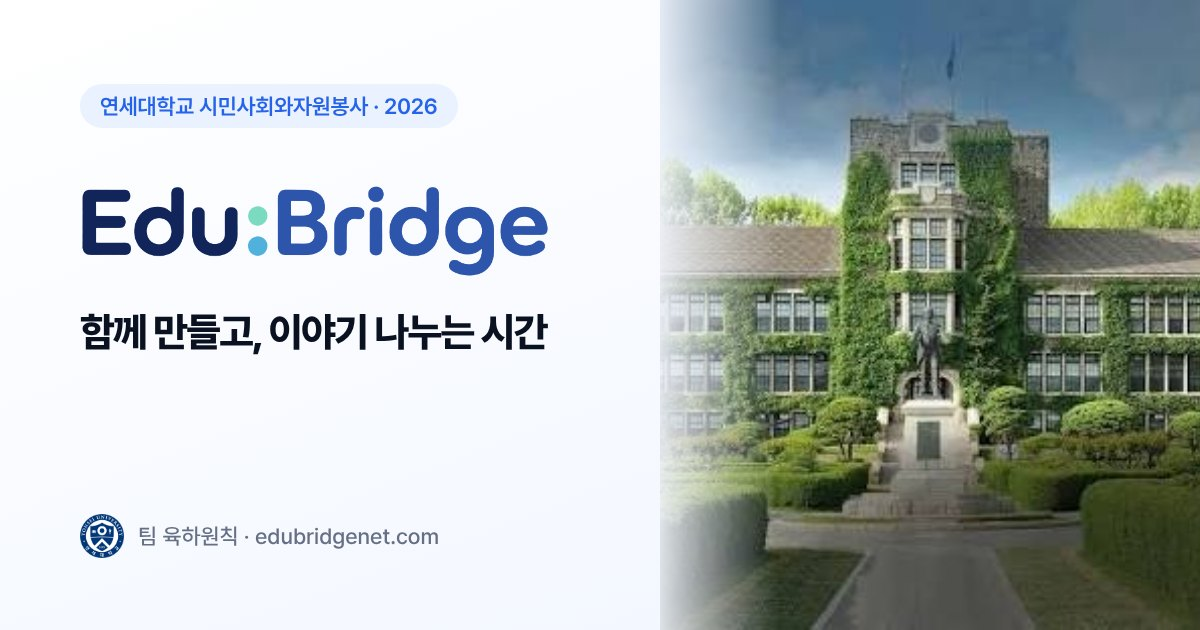
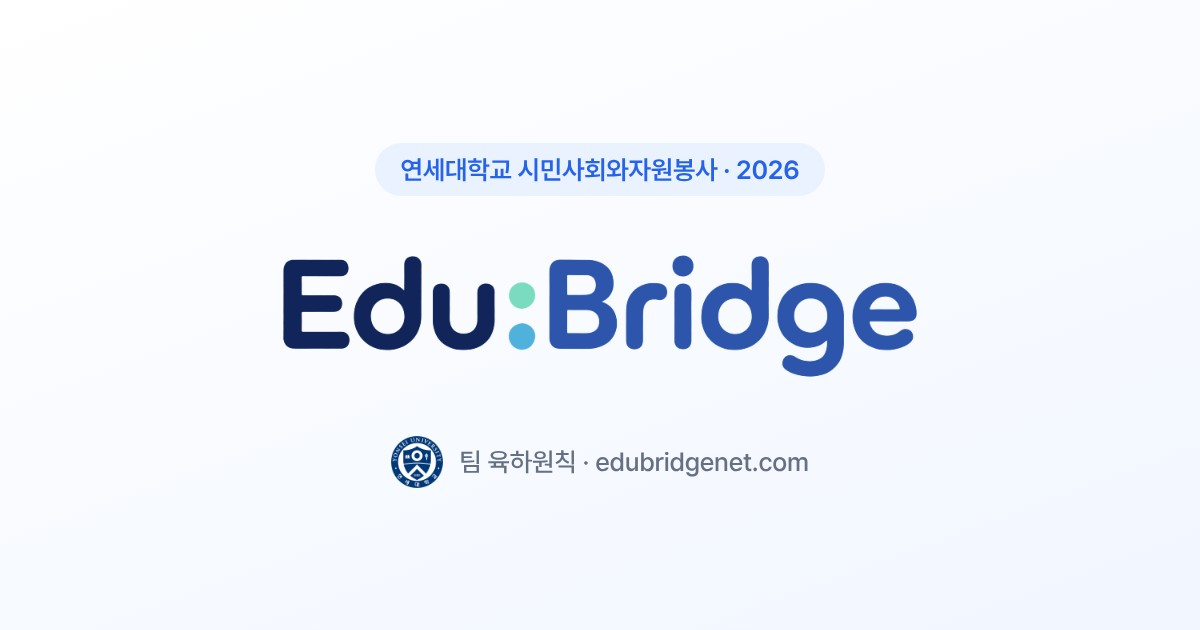
공유 대표 이미지 단순화: 과목명·워드마크·팀명 3줄만
Claude-Session: https://claude.ai/code/session_01FGrZ4YZC4wMHC5N4Ckxrr4

diff --git a/about.html b/about.html
@@ -14,7 +14,7 @@
 <meta property="og:image" content="https://edubridgenet.com/img/og.jpg">
 <meta property="og:image:width" content="1200">
 <meta property="og:image:height" content="630">
-<meta property="og:image:alt" content="EDU:BRIDGE 함께 만들고, 이야기 나누는 시간">
+<meta property="og:image:alt" content="EDU:BRIDGE · 연세대학교 팀 육하원칙">
 <meta name="twitter:card" content="summary_large_image">
 <link rel="icon" href="img/symbol.png">
 <link rel="preload" href="assets/pretendard.woff2" as="font" type="font/woff2" crossorigin>

diff --git a/activity.html b/activity.html
@@ -14,7 +14,7 @@
 <meta property="og:image" content="https://edubridgenet.com/img/og.jpg">
 <meta property="og:image:width" content="1200">
 <meta property="og:image:height" content="630">
-<meta property="og:image:alt" content="EDU:BRIDGE 함께 만들고, 이야기 나누는 시간">
+<meta property="og:image:alt" content="EDU:BRIDGE · 연세대학교 팀 육하원칙">
 <meta name="twitter:card" content="summary_large_image">
 <link rel="icon" href="img/symbol.png">
 <link rel="preload" href="assets/pretendard.woff2" as="font" type="font/woff2" crossorigin>

diff --git a/archive.html b/archive.html
@@ -14,7 +14,7 @@
 <meta property="og:image" content="https://edubridgenet.com/img/og.jpg">
 <meta property="og:image:width" content="1200">
 <meta property="og:image:height" content="630">
-<meta property="og:image:alt" content="EDU:BRIDGE 함께 만들고, 이야기 나누는 시간">
+<meta property="og:image:alt" content="EDU:BRIDGE · 연세대학교 팀 육하원칙">
 <meta name="twitter:card" content="summary_large_image">
 <link rel="icon" href="img/symbol.png">
 <link rel="preload" href="assets/pretendard.woff2" as="font" type="font/woff2" crossorigin>

diff --git a/background.html b/background.html
@@ -14,7 +14,7 @@
 <meta property="og:image" content="https://edubridgenet.com/img/og.jpg">
 <meta property="og:image:width" content="1200">
 <meta property="og:image:height" content="630">
-<meta property="og:image:alt" content="EDU:BRIDGE 함께 만들고, 이야기 나누는 시간">
+<meta property="og:image:alt" content="EDU:BRIDGE · 연세대학교 팀 육하원칙">
 <meta name="twitter:card" content="summary_large_image">
 <link rel="icon" href="img/symbol.png">
 <link rel="preload" href="assets/pretendard.woff2" as="font" type="font/woff2" crossorigin>

diff --git a/index.html b/index.html
@@ -14,7 +14,7 @@
 <meta property="og:image" content="https://edubridgenet.com/img/og.jpg">
 <meta property="og:image:width" content="1200">
 <meta property="og:image:height" content="630">
-<meta property="og:image:alt" content="EDU:BRIDGE 함께 만들고, 이야기 나누는 시간">
+<meta property="og:image:alt" content="EDU:BRIDGE · 연세대학교 팀 육하원칙">
 <meta name="twitter:card" content="summary_large_image">
 <link rel="icon" href="img/symbol.png">
 <link rel="preload" href="assets/pretendard.woff2" as="font" type="font/woff2" crossorigin>

diff --git a/partners.html b/partners.html
@@ -14,7 +14,7 @@
 <meta property="og:image" content="https://edubridgenet.com/img/og.jpg">
 <meta property="og:image:width" content="1200">
 <meta property="og:image:height" content="630">
-<meta property="og:image:alt" content="EDU:BRIDGE 함께 만들고, 이야기 나누는 시간">
+<meta property="og:image:alt" content="EDU:BRIDGE · 연세대학교 팀 육하원칙">
 <meta name="twitter:card" content="summary_large_image">
 <link rel="icon" href="img/symbol.png">
 <link rel="preload" href="assets/pretendard.woff2" as="font" type="font/woff2" crossorigin>

diff --git a/result.html b/result.html
@@ -14,7 +14,7 @@
 <meta property="og:image" content="https://edubridgenet.com/img/og.jpg">
 <meta property="og:image:width" content="1200">
 <meta property="og:image:height" content="630">
-<meta property="og:image:alt" content="EDU:BRIDGE 함께 만들고, 이야기 나누는 시간">
+<meta property="og:image:alt" content="EDU:BRIDGE · 연세대학교 팀 육하원칙">
 <meta name="twitter:card" content="summary_large_image">
 <link rel="icon" href="img/symbol.png">
 <link rel="preload" href="assets/pretendard.woff2" as="font" type="font/woff2" crossorigin>

diff --git a/team.html b/team.html
@@ -14,7 +14,7 @@
 <meta property="og:image" content="https://edubridgenet.com/img/og.jpg">
 <meta property="og:image:width" content="1200">
 <meta property="og:image:height" content="630">
-<meta property="og:image:alt" content="EDU:BRIDGE 함께 만들고, 이야기 나누는 시간">
+<meta property="og:image:alt" content="EDU:BRIDGE · 연세대학교 팀 육하원칙">
 <meta name="twitter:card" content="summary_large_image">
 <link rel="icon" href="img/symbol.png">
 <link rel="preload" href="assets/pretendard.woff2" as="font" type="font/woff2" crossorigin>
